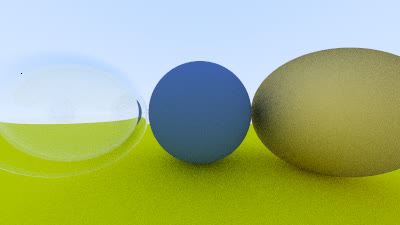
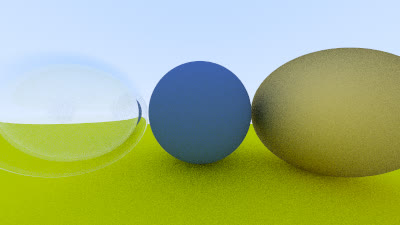
修复了光线追踪深度不足导致的黑点

diff --git a/MyRayTracer/src/main.cpp b/MyRayTracer/src/main.cpp
@@ -27,7 +27,7 @@ int main()
 	camera.Width = 400;
 	camera.Height = 225;
 	camera.SPP = 100;
-	camera.maxDepth = 50;
+	camera.maxDepth = 60;
 
 	camera.render(world);
 	return 0;
